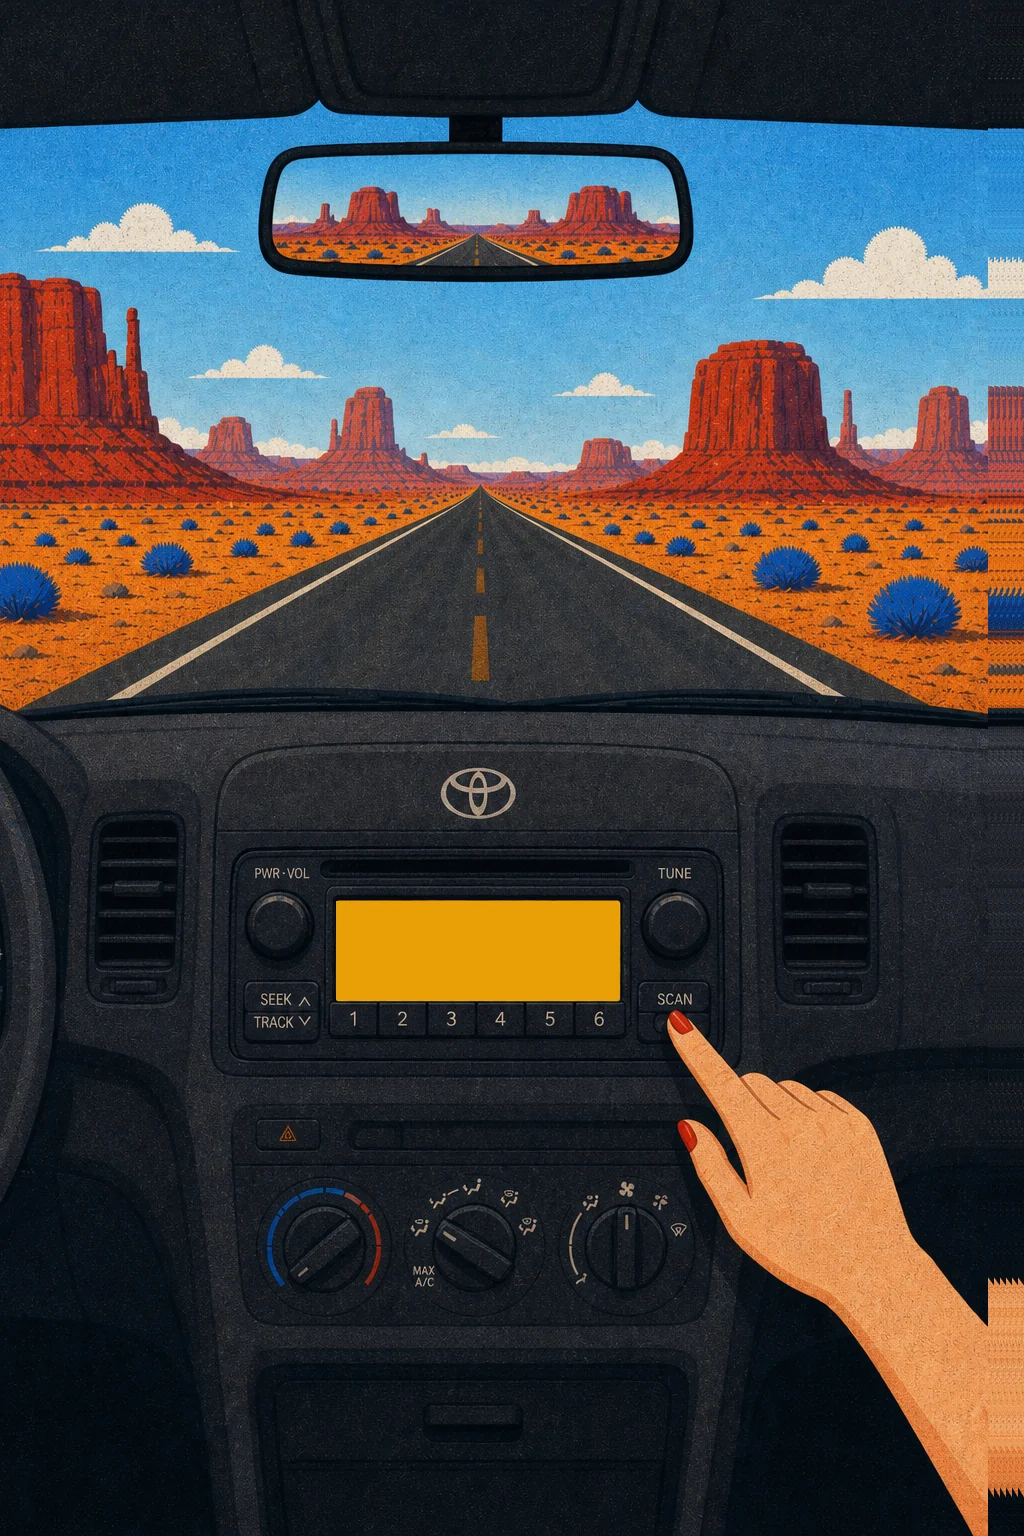
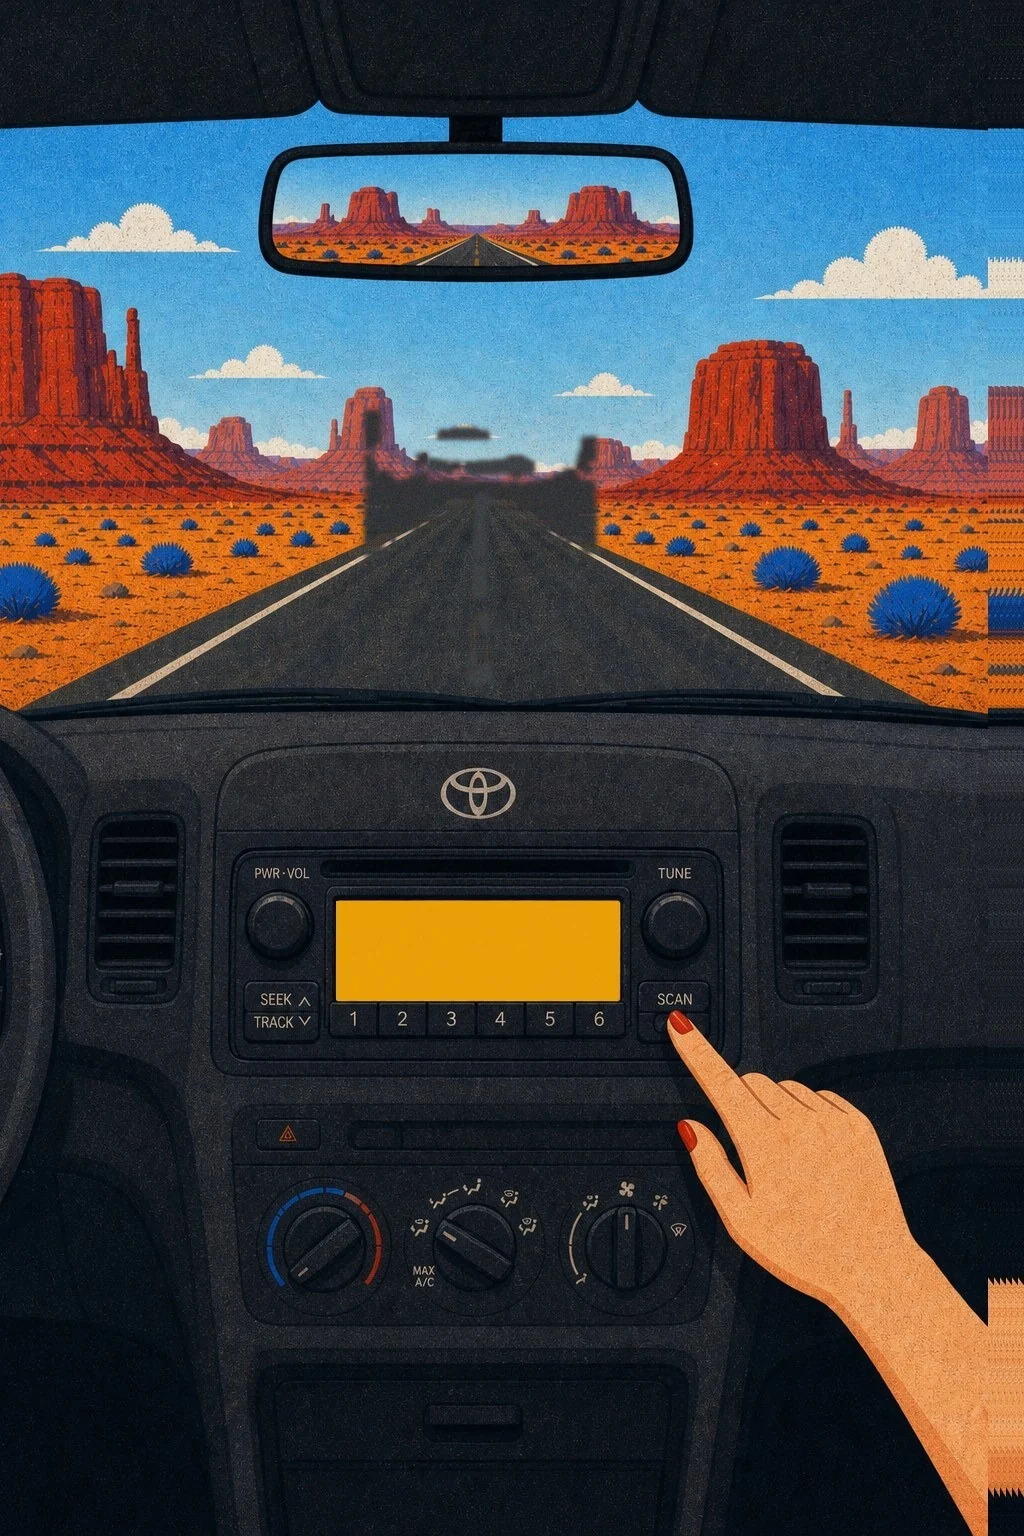
fix: remove printed yellow road dashes from hero art
Clear baked-in centerline paint so only the windshield motion dashes
remain, avoiding the double yellow-line overlap.

diff --git a/src/components/HomeCanvas.tsx b/src/components/HomeCanvas.tsx
@@ -147,9 +147,9 @@ export function HomeCanvas() {
       className="relative h-[100svh] w-full overflow-hidden bg-[#1a1a1a]"
     >
       <picture>
-        <source srcSet={`${BASE}/hero-car-road.webp?v=9`} type="image/webp" />
+        <source srcSet={`${BASE}/hero-car-road.webp?v=10`} type="image/webp" />
         <img
-          src={`${BASE}/hero-car-road.jpg?v=9`}
+          src={`${BASE}/hero-car-road.jpg?v=10`}
           alt=""
           className={
             layout
